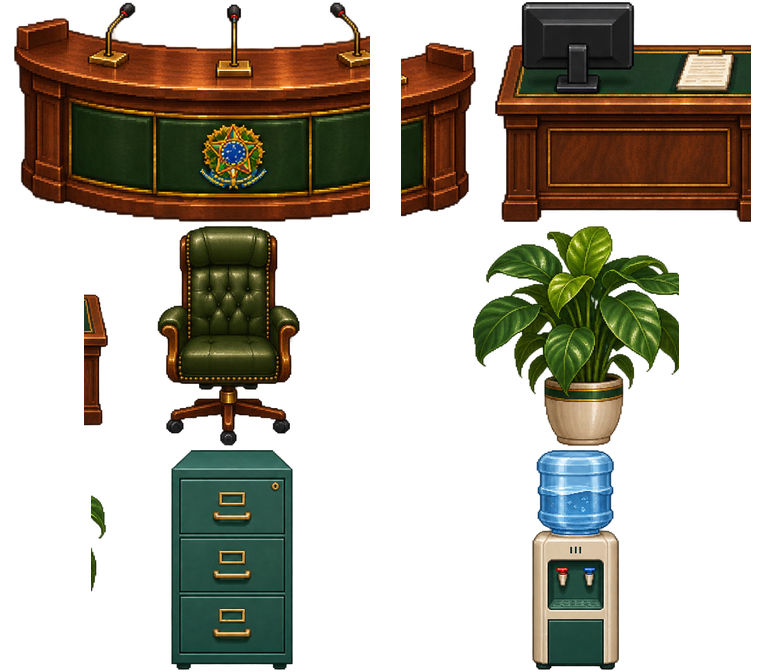
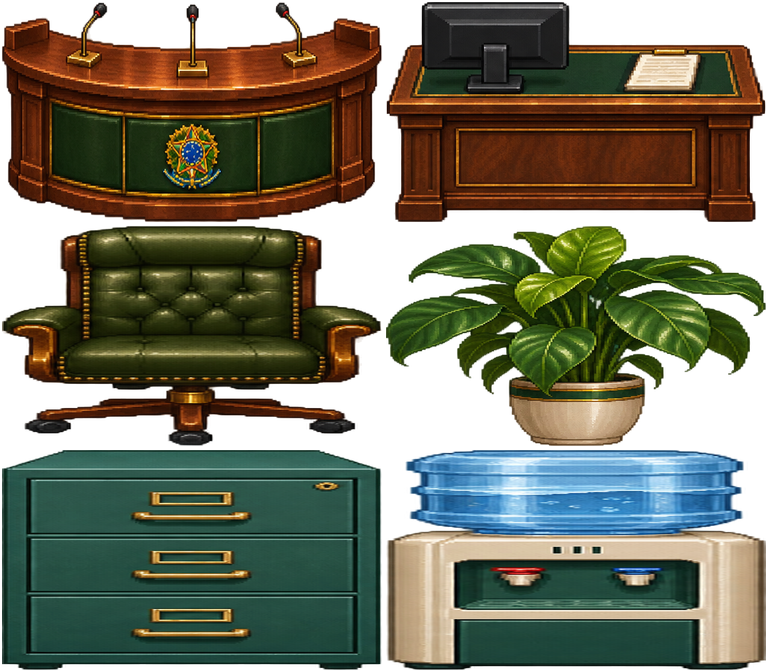
fix(sessao): isolate furniture crops and sharpen the plenary counter

diff --git a/apps/sessao/dev/world-resolution-smoke.js b/apps/sessao/dev/world-resolution-smoke.js
@@ -14,6 +14,33 @@ async (page) => {
     const {worldAssets} = await import('/src/world-assets.ts');
     const {visitorRoster} = await import('/src/visitors.ts');
     const qa = window.qa, scene = qa.scene;
+    // Validate actual pixels: a regular-grid source crop once leaked neighboring furniture.
+    let atlasFrames = 0;
+    for (const size of [384,768]) {
+      const image = new Image(); image.src = `/assets/world-hd/office-${size}.webp`; await image.decode();
+      const height = size*112/192;
+      const canvas = document.createElement('canvas'); canvas.width=size;canvas.height=height;
+      const ctx=canvas.getContext('2d');
+      for (let frame=0;frame<6;frame++) {
+        ctx.clearRect(0,0,size,height);ctx.drawImage(image,frame%2*size,Math.floor(frame/2)*height,size,height,0,0,size,height);
+        const pixels=ctx.getImageData(0,0,size,height).data, mask=new Uint8Array(size*height),queue=new Uint32Array(size*height);
+        let opaque=0,largest=0,left=size,right=-1,top=height,bottom=-1;
+        for (let i=0;i<mask.length;i++) if(pixels[i*4+3]>32) {mask[i]=1;opaque++;const x=i%size,y=Math.floor(i/size);left=Math.min(left,x);right=Math.max(right,x);top=Math.min(top,y);bottom=Math.max(bottom,y);}
+        for (let i=0;i<mask.length;i++) if(mask[i]) {
+          let read=0,write=1;queue[0]=i;mask[i]=0;
+          while(read<write) {
+            const n=queue[read++],x=n%size,y=Math.floor(n/size);
+            for (const next of [x>0?n-1:-1,x<size-1?n+1:-1,y>0?n-size:-1,y<height-1?n+size:-1]) if(next>=0&&mask[next]) {mask[next]=0;queue[write++]=next;}
+          }
+          largest=Math.max(largest,write);
+        }
+        if (!opaque || largest/opaque<.995) throw new Error(`Foreign furniture fragments in frame ${frame}/${size}: ${largest}/${opaque}`);
+        if ((right-left+1)/size<.94 || (bottom-top+1)/height<.94) throw new Error(`Furniture proportions no longer match the original frame: ${frame}/${size}`);
+        atlasFrames++;
+      }
+    }
+    const counter=scene.children.list.find(image=>image.texture && worldArtKey(image)==='plenary-counter');
+    if (!counter || counter.displayWidth!==132 || counter.displayHeight!==38) throw new Error('Plenary counter lost its existing map footprint');
     const terminal = scene.add.image(140,146,'security-terminal').setDisplaySize(45,34);
     const desk = scene.add.image(145,146,'office',1).setDisplaySize(45,23);
     const npc = scene.add.image(150,146,'npc-vendor').setDisplaySize(38,38);
@@ -60,7 +87,9 @@ async (page) => {
       const art=adaptiveWalkArt(scene,0,id,9.3);
       if (!scene.anims.exists(`${art.animation}-2`)) throw new Error(`Missing walk directions: ${id}`);
     }
-    return {low,medium,high,animationSheets:animations.length,safeState:true,trump:'unchanged'};
+    updateWorldArt(scene,9.3,{x:400,y:550,width:160,height:100}); await settle(); updateWorldArt(scene,9.3,{x:400,y:550,width:160,height:100});
+    if (counter.texture.key!=='hires:plenary-counter:2048' || counter.displayWidth!==132 || counter.displayHeight!==38) throw new Error('Large plenary counter did not use its independent high-resolution texture');
+    return {atlasFrames,counterTier:2048,low,medium,high,animationSheets:animations.length,safeState:true,trump:'unchanged'};
   });
   await context.close();
   const ui=[];

diff --git a/apps/sessao/src/world-assets.test.ts b/apps/sessao/src/world-assets.test.ts
@@ -12,7 +12,7 @@ test('all requested NPCs, visitors, Federal, furniture and UI images ship real d
   for (const item of Object.values(objects)) expect(worldAssets[item.portrait]?.variants.some(v => v.size === 512)).toBe(true);
   for (const npc of Object.values(mapNpcs)) if (npc.sprite !== 'donald-trump.webp') expect(worldAssets[npc.sprite]?.variants.some(v => v.size === 512)).toBe(true);
   for (const sheet of [...visitorSheets,...federalPatrolSheets]) expect(Object.values(worldAssets).some(asset => asset?.id === sheet.key)).toBe(true);
-  for (const filename of ['office-hd.png','retratos-elenco.webp','gabinete-cofre.webp','gabinete-cofre-aberto.webp','gabinete-armario.webp','gabinete-poltrona.webp','gabinete-tv.webp','gabinete-tapete.webp','terminal-seguranca.webp','painel-eletrico.webp','cadeira-reserva.webp','moldura-congresso.webp','retrato-tenis.webp','retrato-incendiario.webp','projetos/auxilio-churrasco.webp']) expect(worldAssets[filename]).toBeDefined();
+  for (const filename of ['office-hd.png','plenary-counter.webp','retratos-elenco.webp','gabinete-cofre.webp','gabinete-cofre-aberto.webp','gabinete-armario.webp','gabinete-poltrona.webp','gabinete-tv.webp','gabinete-tapete.webp','terminal-seguranca.webp','painel-eletrico.webp','cadeira-reserva.webp','moldura-congresso.webp','retrato-tenis.webp','retrato-incendiario.webp','projetos/auxilio-churrasco.webp']) expect(worldAssets[filename]).toBeDefined();
   for (const asset of Object.values(worldAssets)) for (const variant of asset!.variants) {
     const file = Bun.file(new URL(`../public/${variant.path}`,import.meta.url));
     expect(await file.exists()).toBe(true);
@@ -26,4 +26,8 @@ test('browser image sources declare physical widths and preserve caller layout s
   expect(sources.srcSet).toContain(' 128w');
   expect(sources.srcSet).toContain(' 256w');
   expect(sources.srcSet).toContain(' 512w');
+});
+
+test('the plenary counter has its own larger detail tiers', () => {
+  expect(worldAssets['plenary-counter.webp']?.variants.map(variant => variant.size)).toEqual([128,256,512,1024,2048]);
 });

diff --git a/apps/sessao/src/draw-map.ts b/apps/sessao/src/draw-map.ts
@@ -15,7 +15,7 @@ export function drawMap(scene: Phaser.Scene,
     graphics.fillStyle(color,alpha).fillRect(x,y,width,height);
   };
   const prop = (frame:number, x:number, y:number, width:number, height:number, depth=0) =>
-    scene.add.image(x,y,'office',frame).setOrigin(0).setDisplaySize(width,height).setDepth(depth);
+    scene.add.image(x,y,frame===0 ? 'plenary-counter' : 'office',frame===0 ? undefined : frame).setOrigin(0).setDisplaySize(width,height).setDepth(depth);
   const floor = ([x,y,w,h]:Rect, color:number, tileWidth:number, tileHeight:number) => {
     fill(color,x,y,w,h);
     for (let row=0;row*tileHeight<h;row++) {

diff --git a/apps/sessao/src/world-art.ts b/apps/sessao/src/world-art.ts
@@ -90,6 +90,7 @@ export function preloadWorldArt(scene: Phaser.Scene) {
   for (const { texture, sprite } of Object.values(installationArt)) {
     loadWorldImage(scene, texture, sprite);
   }
+  loadWorldImage(scene, 'plenary-counter', 'plenary-counter.webp');
   loadWorldImage(scene, 'cash-briefcase', 'maleta-social.png');
   for (const [key, weapon] of Object.entries(weapons)) {
     loadWorldImage(scene, `weapon-${key}`, weapon.sprite);

diff --git a/apps/sessao/dev/hires-world/build.py b/apps/sessao/dev/hires-world/build.py
@@ -18,12 +18,13 @@ def body(im):
  if count:
   sizes=np.bincount(labels.ravel());sizes[0]=0;keep=ndimage.binary_dilation(labels==sizes.argmax(),iterations=2);a[~keep]=0;im.putalpha(Image.fromarray(a))
  return im
-def fit(source,target,size,offset=0):
+def fit(source,target,size,offset=0,stretch=False):
  b=box(source);t=box(target)
  if not b or not t:raise ValueError('Empty source or target')
  sx,sy=size[0]/target.width,size[1]/target.height
  w,h=b[2]-b[0],b[3]-b[1];scale=min((t[2]-t[0])*sx/w,(t[3]-t[1])*sy/h,(size[0]-4)/w,(size[1]-4)/h)
- art=source.crop(b).resize((max(1,round(w*scale)),max(1,round(h*scale))),Image.Resampling.LANCZOS)
+ art_size=(min(size[0]-4,max(1,round((t[2]-t[0])*sx))),min(size[1]-4,max(1,round((t[3]-t[1])*sy)))) if stretch else (max(1,round(w*scale)),max(1,round(h*scale)))
+ art=source.crop(b).resize(art_size,Image.Resampling.LANCZOS)
  x=round((t[0]+t[2])/2*sx-art.width/2+offset*sx);y=round(t[3]*sy-art.height)
  x=max(2,min(size[0]-2-art.width,x));y=max(2,min(size[1]-2-art.height,y))
  canvas=Image.new('RGBA',size);canvas.alpha_composite(art,(x,y));return canvas
@@ -34,9 +35,9 @@ for rec in records:
  if kind=='portrait':
   n=rec['frame'];portraits.append((n,fit(source,cell(original,n,[2,4]),(512,512))));continue
  if kind=='image':
-  for long in [128,256,512]:
+  for long in rec.get('resolutions',[128,256,512]):
    size=tuple(max(1,round(n/max(original.size)*long)) for n in original.size)
-   im=fit(source,original,size);path=f'assets/world-hd/{rec["id"]}-{long}.webp';im.save(ROOT/'public'/path,lossless=True,method=4)
+   im=fit(source,original,size,stretch=rec.get('stretchToLegacyFrame',False));path=f'assets/world-hd/{rec["id"]}-{long}.webp';im.save(ROOT/'public'/path,lossless=True,method=4)
    variants.append({'key':f'hires:{rec["id"]}:{long}','path':path,'width':size[0],'height':size[1],'size':long})
  elif kind in ['animation','atlas']:
   grid=rec['grid'];base=rec.get('frameSize',[128,128]);oldgrid=[original.width//base[0],original.height//base[1]]
@@ -44,10 +45,11 @@ for rec in records:
    size=[n*factor for n in base];outputgrid=[2,3] if kind=='atlas' else grid
    atlas=Image.new('RGBA',(outputgrid[0]*size[0],outputgrid[1]*size[1]))
    for n in range(grid[0]*grid[1]):
-    src=cell(source,n,grid);target=cell(original,n,oldgrid)
-    if kind=='animation':src=body(src);target=body(target)
+    src=source.crop(rec['frameBoxes'][n]) if 'frameBoxes' in rec else cell(source,n,grid);target=cell(original,n,oldgrid)
+    if kind=='animation' or 'frameBoxes' in rec:src=body(src)
+    if kind=='animation':target=body(target)
     offset=FEDERAL_X[n] if rec['id']=='japones-federal-walk' else 0
-    im=fit(src,target,size,offset);atlas.paste(im,(n%outputgrid[0]*size[0],n//outputgrid[0]*size[1]))
+    im=fit(src,target,size,offset,stretch=rec.get('stretchToLegacyFrame',False));atlas.paste(im,(n%outputgrid[0]*size[0],n//outputgrid[0]*size[1]))
    long=size[0];path=f'assets/world-hd/{rec["id"]}-{long}.webp';atlas.save(ROOT/'public'/path,lossless=True,method=4)
    variants.append({'key':f'{rec["id"]}-{long}' if kind=='animation' else f'hires:{rec["id"]}:{long}','path':path,'width':size[0],'height':size[1],'size':long})
  registry[rec['original']]={'id':rec['id'],'kind':kind,'width':128 if kind=='animation' else rec.get('frameSize',list(original.size))[0],'height':128 if kind=='animation' else rec.get('frameSize',list(original.size))[1],'variants':variants}

diff --git a/apps/sessao/dev/hires-world/README.md b/apps/sessao/dev/hires-world/README.md
@@ -15,3 +15,9 @@ Optional positional prefixes restrict export, for example `project-` or `marcos-
 Generated files live in `public/assets/world-hd`; `src/world-assets.json` registers shipped variants. Animated actors use the existing lazy Phaser selection. Static world art uses the same loader and preserves frame index, world size, origin and safe state. Only render demand above the original frame size requests a larger texture; off-camera static images are skipped. Browser images use native `srcset`/`sizes`; the portrait atlas uses CSS `image-set` for dense screens. Failing optional files retain the base art.
 
 Open `/sprites.html` to inspect players, visitors, Federal, NPCs and **Objetos e interface**, comparing Anterior/128/256/512 with valid bounds and margins. Rectangular furniture and portrait atlases are shown as complete sheets. Original files remain available for comparison; artistic refinement is independent from resolution validation.
+
+## Office atlas correction
+
+The original furniture source is an illustration containing six unevenly spaced objects, not a regular grid. `frameBoxes` records each complete object's crop in the original master; neighboring fragments are removed before export. These atlas cells retain the existing per-frame X/Y proportions because map furniture dimensions compensate for the legacy 192×112 frame. Uniform aspect fitting would make chairs/cabinets too narrow.
+
+The 132×38 plenary counter uses an independent image instead of an atlas cell, with lazy 1024/2048 detail in addition to the smaller tiers. Its ImageGen restoration uses the complete original counter as reference; source, input and prompt are archived here. The map footprint and camera coverage remain unchanged. Browser regression checks inspect all twelve exported furniture frames for detached fragments and legacy occupancy, and verify the counter's real map dimensions and 2048 selection.
